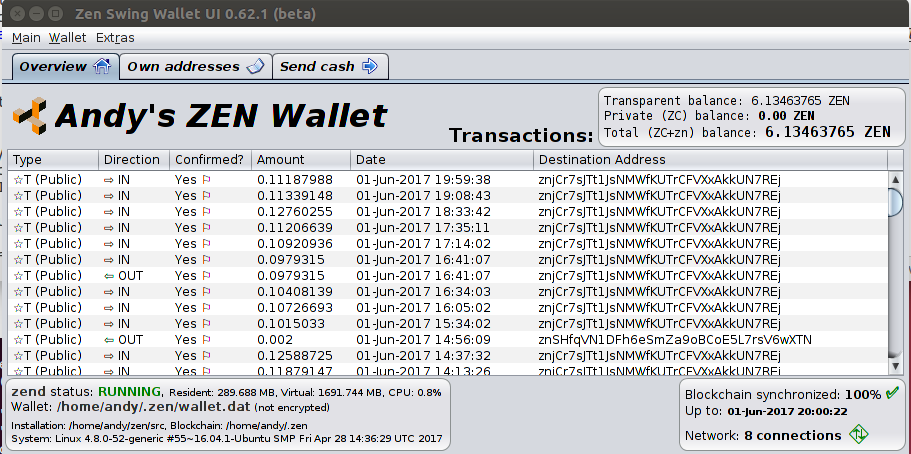
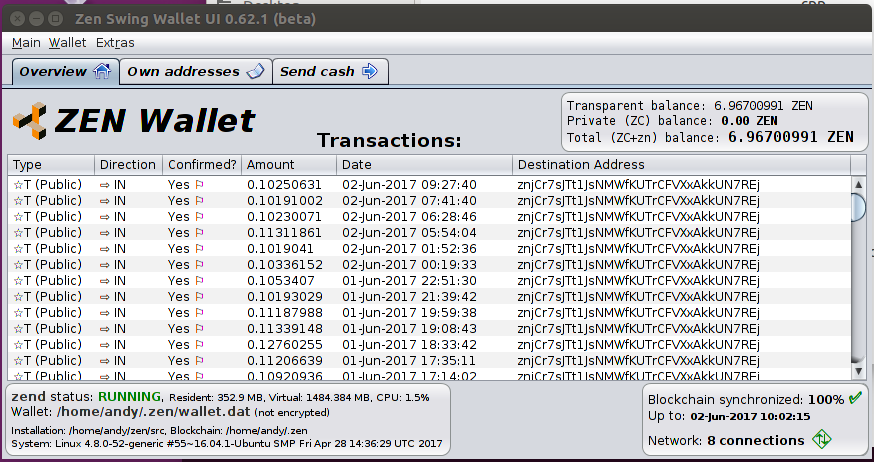
New Picture

diff --git a/src/java/com/vaklinov/zcashui/DashboardPanel.java b/src/java/com/vaklinov/zcashui/DashboardPanel.java
@@ -122,7 +122,7 @@ public class DashboardPanel
 			this.getClass().getClassLoader().getResource("images/Z-yellow.orange-logo-small.png")));
 		tempPanel.add(logoLabel);
 		//tempPanel.add(new JLabel(" "));
-		JLabel zcLabel = new JLabel("EN Wallet     ");
+		JLabel zcLabel = new JLabel("ZEN Wallet     ");
 		zcLabel.setFont(new Font("Helvetica", Font.BOLD | Font.ITALIC, 32));
 		tempPanel.add(zcLabel);
 		tempPanel.setToolTipText("Powered by ZEN");
